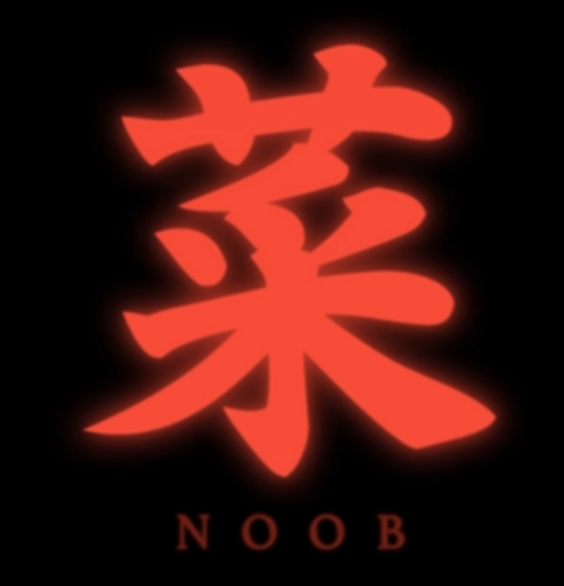
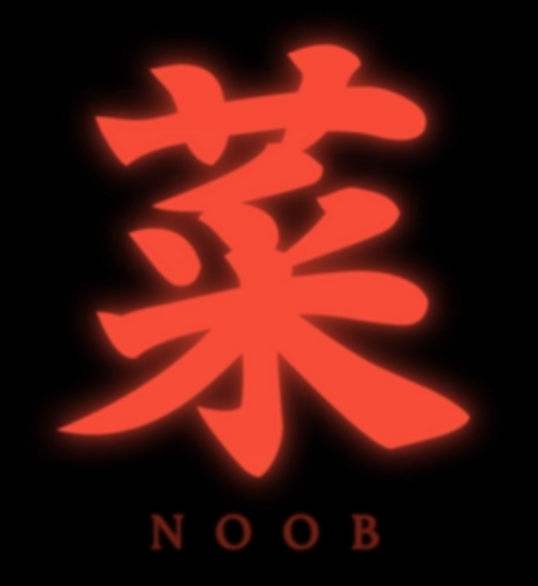
feature: window resize UI

diff --git a/src/screen/deathScreen.cpp b/src/screen/deathScreen.cpp
@@ -2,19 +2,22 @@
  * @Author: vic123 zhangzc_efz@163.com
  * @Date: 2024-06-11 15:50:46
  * @LastEditors: vic123 zhangzc_efz@163.com
- * @LastEditTime: 2024-06-12 14:20:36
+ * @LastEditTime: 2024-06-14 17:01:01
  * @FilePath: \SFML-snake\src\screen\deathScreen.cpp
  * @Description:
  *
  * Copyright (c) 2024 by vic123, All Rights Reserved.
  */
 #include "deathScreen.hpp"
-DeathScreen::DeathScreen() : startMenuButton("MAINMENU"), restartButton("RESTART"),ScreenEnum(SCREEN::DEATH)
+DeathScreen::DeathScreen() : startMenuButton("MAINMENU"), restartButton("RESTART"), ScreenEnum(SCREEN::DEATH)
 {
     startMenuButton.setPosition(sf::Vector2f(180, 500));
     restartButton.setPosition(sf::Vector2f(420, 500));
     texture.loadFromFile("../../resources/img/noob.png");
     sNoob.setTexture(texture);
+    sNoob.setColor(sf::Color(0, 0, 0, transparent));
+    sf::FloatRect spriteBounds = sNoob.getLocalBounds();
+    sNoob.setOrigin(spriteBounds.width / 2, spriteBounds.height / 2);
 }
 void DeathScreen::run(sf::RenderWindow &window)
 {
@@ -31,16 +34,22 @@ void DeathScreen::handleInput(sf::RenderWindow &window)
 
 void DeathScreen::update()
 {
-    ;
+    transparent++;
+    if (transparent > 255)
+    {
+        transparent = 0;
+    }
 }
 
 void DeathScreen::render(sf::RenderWindow &window)
 {
+    float scale = window.getSize().x / 1200.0;
     sf::Vector2u windowSize = window.getSize();
-    sf::FloatRect spriteBounds = sNoob.getLocalBounds();
-    sNoob.setOrigin(spriteBounds.width / 2, spriteBounds.height / 2);
-    sNoob.setPosition(windowSize.x / 2.0f, windowSize.y / 2.0f);
-    sNoob.setScale(0.5, 0.5);
+    sNoob.setPosition(window.getView().getCenter());
+    sNoob.setScale(scale, scale);
+    sNoob.setColor(sf::Color(255, 255, 255, transparent));
+    startMenuButton.setPosition(window.getView().getCenter() + scale * sf::Vector2f(-30, 300) + sf::Vector2f(-220, 0));
+    restartButton.setPosition(window.getView().getCenter() + scale * sf::Vector2f(30, 300) + sf::Vector2f(20, 0));
     window.clear(sf::Color::Black);
     window.draw(startMenuButton);
     window.draw(restartButton);
@@ -74,7 +83,12 @@ DeathScreen &DeathScreen::getInstance()
     return mDeathScreen;
 }
 
-
-SCREEN DeathScreen::getScreenEnum(){
+SCREEN DeathScreen::getScreenEnum()
+{
     return ScreenEnum;
+}
+
+void DeathScreen::restart()
+{
+    transparent = 0;
 }

diff --git a/src/screen/screenManager.cpp b/src/screen/screenManager.cpp
@@ -2,7 +2,7 @@
  * @Author: vic123 zhangzc_efz@163.com
  * @Date: 2024-06-01 15:50:53
  * @LastEditors: vic123 zhangzc_efz@163.com
- * @LastEditTime: 2024-06-14 14:36:51
+ * @LastEditTime: 2024-06-14 16:58:21
  * @FilePath: \SFML-snake\src\screen\screenManager.cpp
  * @Description:
  *
@@ -48,7 +48,15 @@ void ScreenManager::run()
                 case sf::Event::Closed:
                     window.close();
                     break;
-
+                case sf::Event::Resized:
+                {
+                    // update the view to the new size of the window
+                    sf::FloatRect visibleArea(0.f, 0.f, event.size.width, event.size.height);
+                    sf::View view(visibleArea);
+                    view.setCenter(400, 300);
+                    window.setView(view);
+                    break;
+                }
                 default:
                     break;
                 }
@@ -84,7 +92,16 @@ void ScreenManager::nextScreenLogic()
         break;
 
     case SCREEN::DEATH:
-        gameScreen.restart();
+        switch (currentScreen->getScreenEnum())
+        {
+        case SCREEN::DEATH:
+            break;
+
+        default:
+            gameScreen.restart();
+            deathScreen.restart();
+            break;
+        }
         currentScreen = &deathScreen;
         break;
     default:

diff --git a/src/UI/button.cpp b/src/UI/button.cpp
@@ -2,7 +2,7 @@
  * @Author: vic123 zhangzc_efz@163.com
  * @Date: 2024-06-01 15:58:19
  * @LastEditors: vic123 zhangzc_efz@163.com
- * @LastEditTime: 2024-06-11 15:46:58
+ * @LastEditTime: 2024-06-14 17:14:21
  * @FilePath: \SFML-snake\src\UI\button.cpp
  * @Description:
  *
@@ -13,7 +13,7 @@ Button::Button(const std::string &buttonText)
 {
     if (!font.loadFromFile("../../resources/font/retro-pixel-font/arcade/retro-pixel-arcade.otf"))
     {
-        // std::cout << "fuck! where is the font?(calling from button.cpp)";
+        std::cout << "fuck! where is the font?(calling from button.cpp)";
     }
     text.setFont(font);
     text.setString(buttonText);
@@ -36,7 +36,8 @@ bool Button::getIsClicked() const
 void Button::update(sf::RenderWindow &window, const sf::Time &dt)
 {
     // 更新按钮状态：检测鼠标悬停状态
-    auto mousePos = static_cast<sf::Vector2f>(sf::Mouse::getPosition(window));
+
+    auto mousePos = static_cast<sf::Vector2f>(window.mapPixelToCoords(sf::Mouse::getPosition(window)));
     isHovered = shape.getGlobalBounds().contains(mousePos);
     if (isHovered)
     {

diff --git a/src/entity/snakeManager.cpp b/src/entity/snakeManager.cpp
@@ -3,7 +3,7 @@
  * @Author: vic123 zhangzc_efz@163.com
  * @Date: 2024-05-29 22:57:14
  * @LastEditors: vic123 zhangzc_efz@163.com
- * @LastEditTime: 2024-06-14 11:41:25
+ * @LastEditTime: 2024-06-14 16:17:54
  * @FilePath: \SFML-snake\src\entity\snakeManager.cpp
  * @Description:
  *
@@ -72,7 +72,7 @@ void SnakeManager::handleInput(sf::RenderWindow &window)
             {
                 sf::Vector2f headPos = snake.getHead();
                 sf::Vector2i mousePos = sf::Mouse::getPosition(window);
-                sf::Vector2f relativePos = sf::Vector2f(mousePos.x - 400, mousePos.y - 300);
+                sf::Vector2f relativePos = window.mapPixelToCoords(mousePos) - snake.getHead();
                 snake.setDirection(turnWithBound(snake.getDirection(), relativePos, snake.getMaxAngularVelocity() * snake.getSpeed() * timePerFrame.asSeconds())); // speed * maxAngularVelocity * timePerFrame.asSeconds()
             }
         }

diff --git a/src/screen/deathScreen.hpp b/src/screen/deathScreen.hpp
@@ -9,6 +9,7 @@ private:
     Button restartButton;
     sf::Texture texture;
     sf::Sprite sNoob;
+    int transparent;
     DeathScreen();
 
 public:
@@ -19,6 +20,7 @@ public:
     void run(sf::RenderWindow &window) override;
     SCREEN nextScreenLogic(sf::RenderWindow &window) override;
     SCREEN getScreenEnum() override;
+    void restart();
     DeathScreen(DeathScreen const &) = delete; // make sure no copies of SnakeManager may exist
     void operator=(DeathScreen const &) = delete;
 };

diff --git a/src/screen/startScreen.cpp b/src/screen/startScreen.cpp
@@ -14,7 +14,7 @@ StartScreen::StartScreen() : startButton("START"), ScreenEnum(SCREEN::START)
     startButton.setPosition(sf::Vector2f(300, 350));
     if (!font.loadFromFile("../../resources/font/retro-pixel-font/arcade/retro-pixel-arcade.otf"))
     {
-        // std::cout << "fuck! where is the font?(calling from startScreen.cpp)";
+        std::cout << "fuck! where is the font?(calling from startScreen.cpp)";
     }
     text1.setFont(font);
     text1.setString("SFML SNAKE");

diff --git a/src/entity/snake.cpp b/src/entity/snake.cpp
@@ -109,11 +109,11 @@ const sf::Vector2f &Snake::getHead()
 // helper func for debugging
 void Snake::Sprint()
 {
-    // for (const auto &a : snakeBody)
-    // {
-    //std::cout << "(" << snakeBody[0].x << "," << snakeBody[0].y << ")";
-    // }
-    //std::cout << std::endl;
+    for (const auto &a : snakeBody)
+    {
+        std::cout << "(" << snakeBody[0].x << "," << snakeBody[0].y << ")";
+    }
+    std::cout << std::endl;
 }
 void Snake::scaleUp()
 {

diff --git a/src/screen/gameScreen.cpp b/src/screen/gameScreen.cpp
@@ -2,7 +2,7 @@
  * @Author: vic123 zhangzc_efz@163.com
  * @Date: 2024-06-01 15:50:53
  * @LastEditors: vic123 zhangzc_efz@163.com
- * @LastEditTime: 2024-06-14 11:39:21
+ * @LastEditTime: 2024-06-14 16:24:01
  * @FilePath: \SFML-snake\src\screen\gameScreen.cpp
  * @Description:
  *
